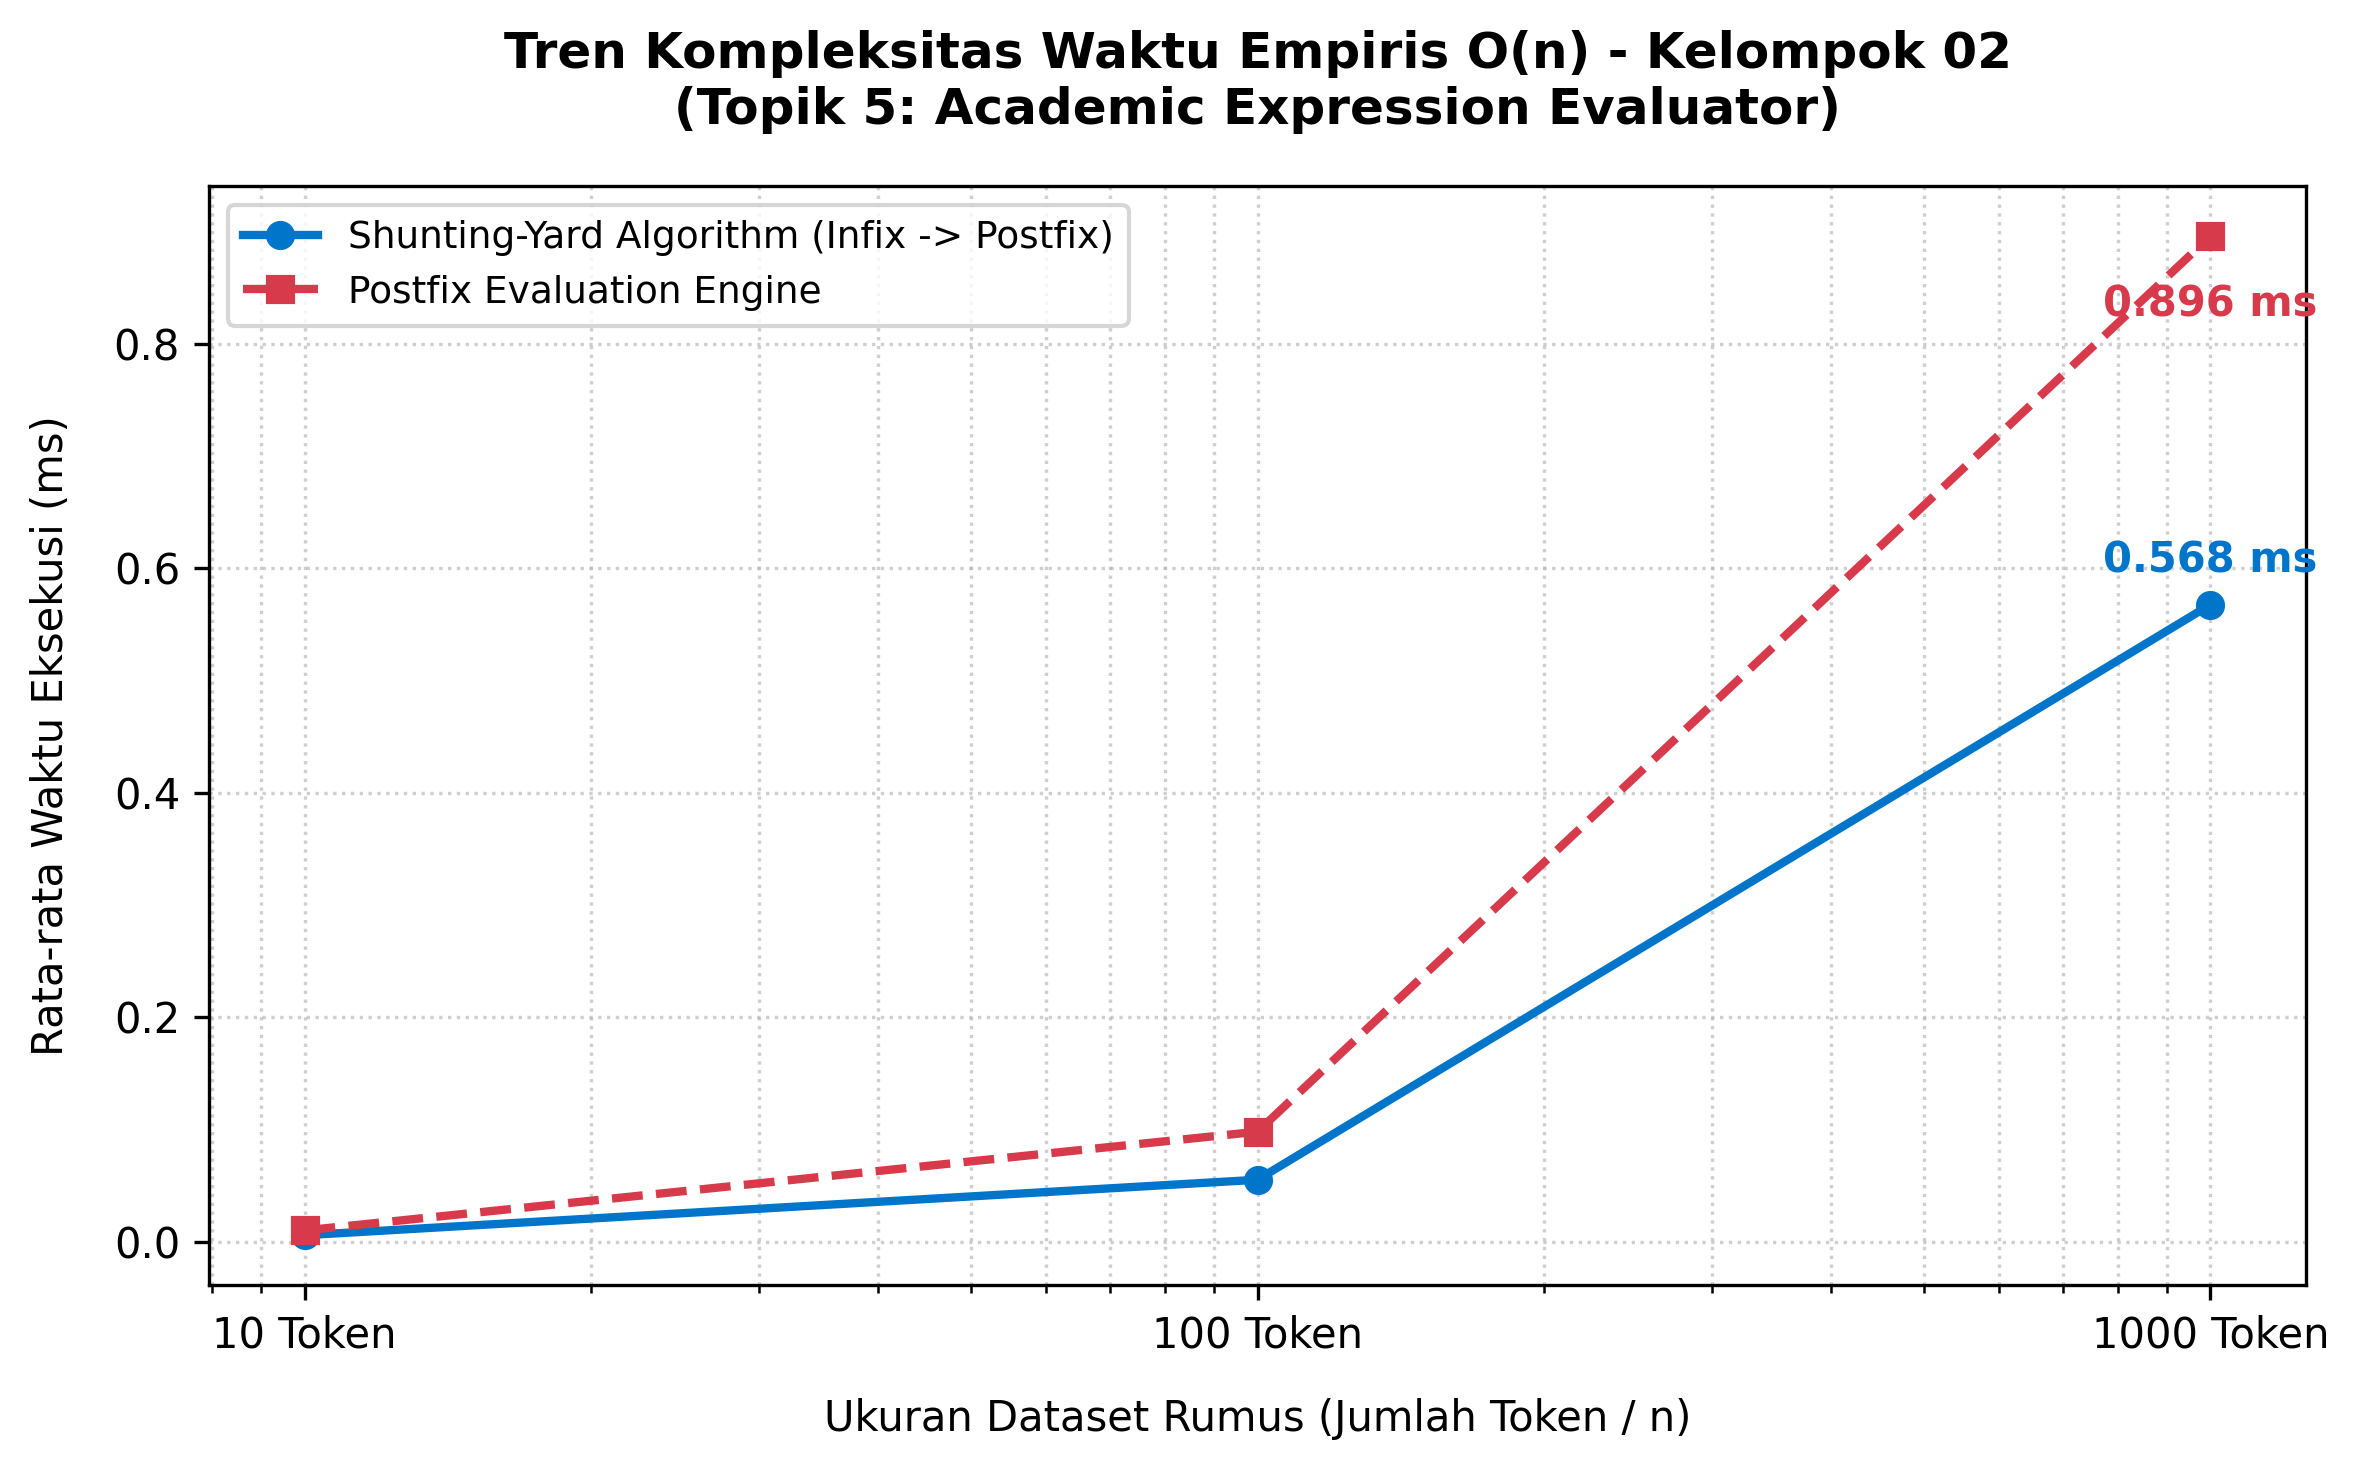
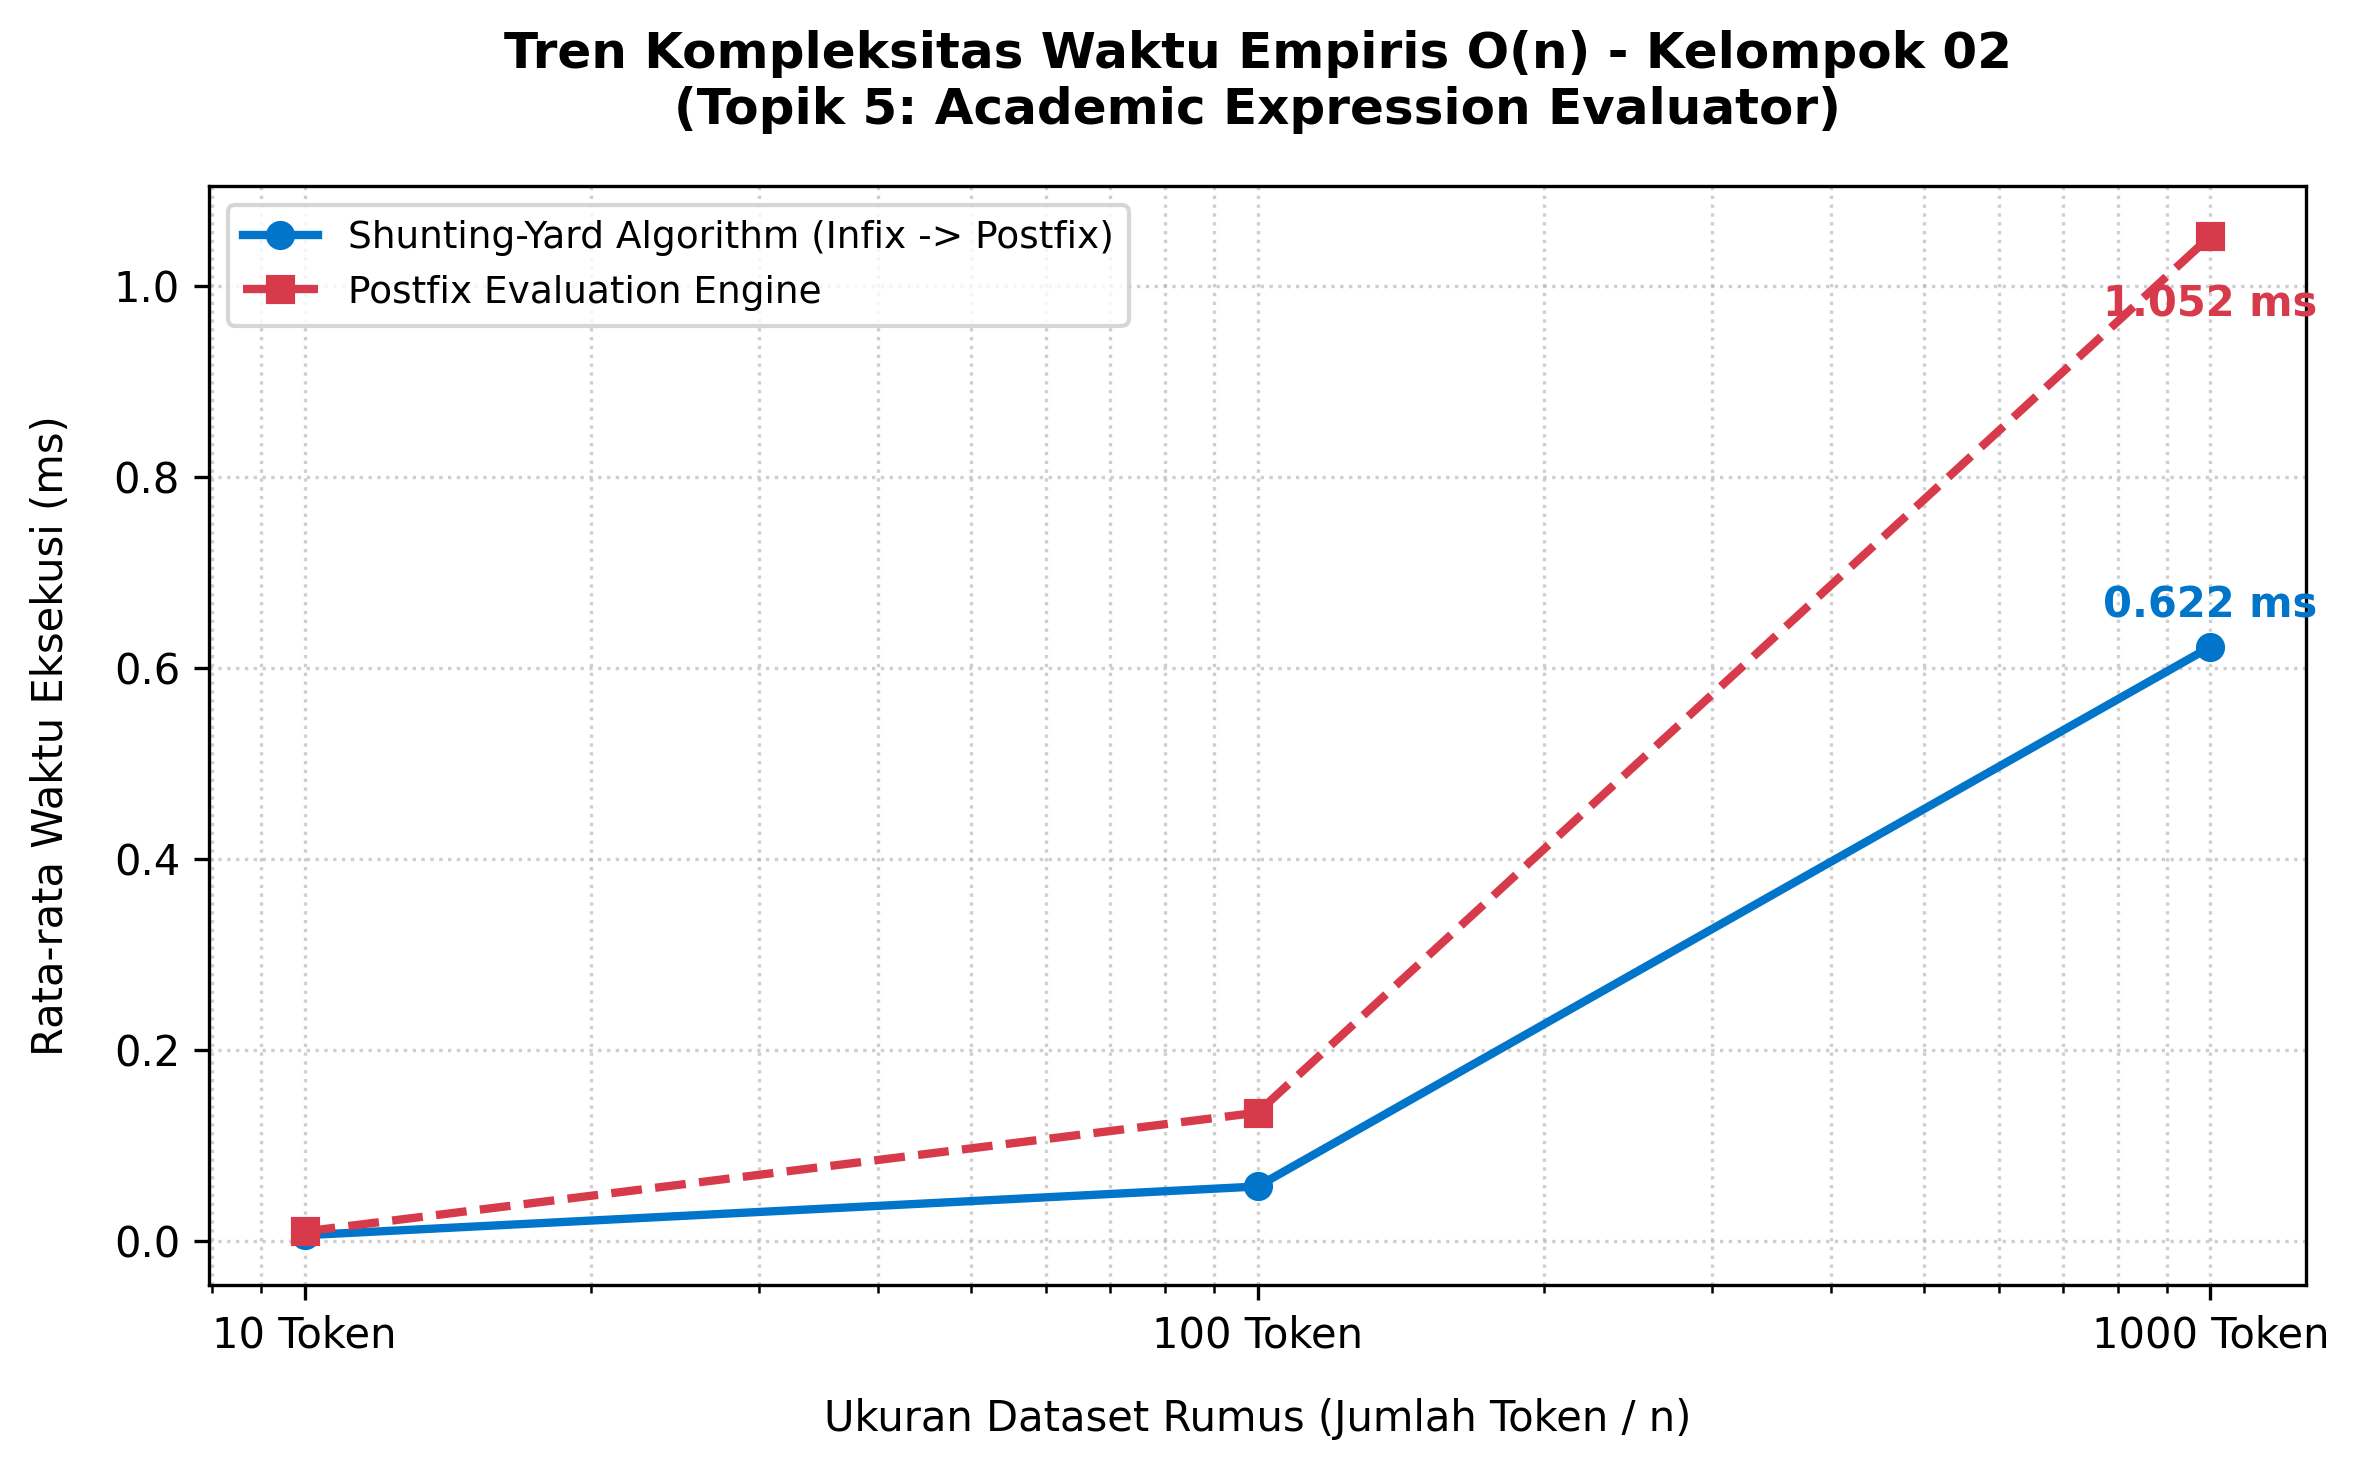
update cli kalkulator dan grafik runtime bab 5

diff --git a/src/modules/cli_kalkulator.py b/src/modules/cli_kalkulator.py
@@ -7,8 +7,8 @@ sys.path.append(os.path.abspath(os.path.join(os.path.dirname(__file__), '..')))
 # ==============================================================================
 # IMPORT MODUL ASLI
 # ==============================================================================
-from src.modules.konversi_infix_ke_postfix import infix_to_postfix
-from src.modules.evaluasi_postfix import eval_postfix
+from modules.konversi_infix_ke_postfix import infix_to_postfix
+from modules.evaluasi_postfix import eval_postfix
 
 def bersihkan_layar_cli():
     os.system('cls' if os.name == 'nt' else 'clear')